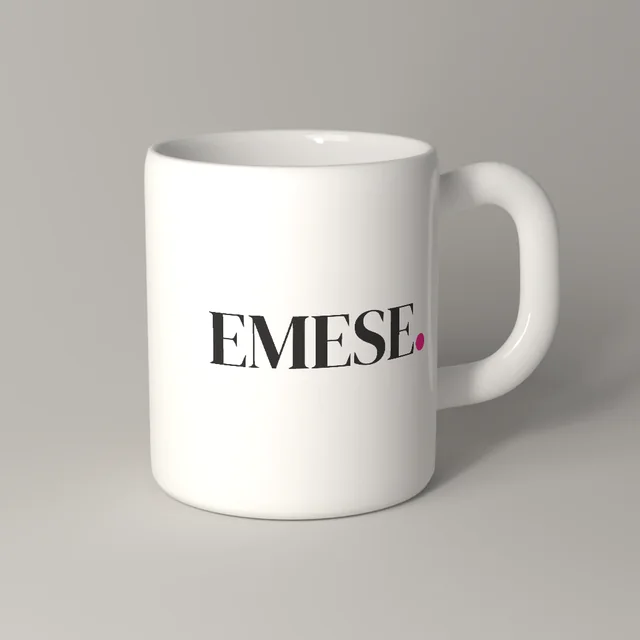
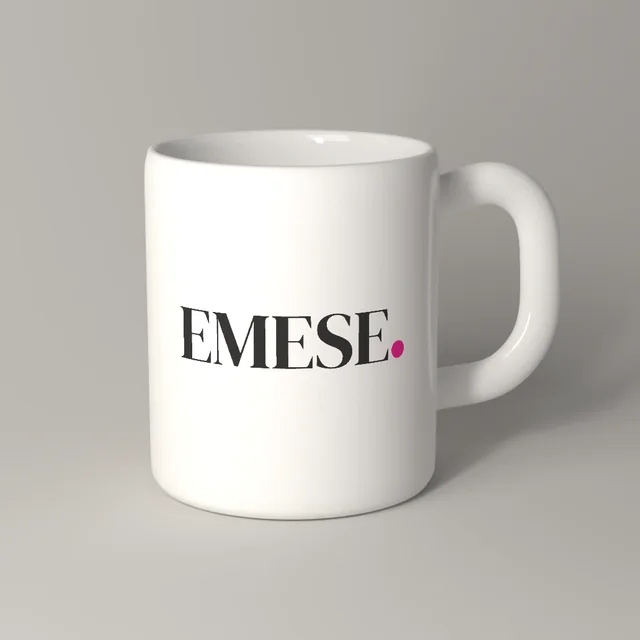
Render all 10 products; cap and desk flag; realism fixes
- Final Cycles renders for tee, cap, tote, mug, water bottle, notebook,
  pen, business cards, desk flag and wood keychain, with a float gloss
  pass so dark colours recolour cleanly
- Softer tee folds and tote weave; knit/grain kept in the albedo so it
  survives denoising and recolouring
- Foil reads as metal, laser lightens dark leather and burns light
  materials, pen prints the right way round (vFlip support)
- Mug and bottle prints face the camera by default
- Hero skips any product that fails to load; dashed frame shows the
  design bounds while moving or resizing it
- Baked card photos (tools/mockups/cards.py) for the product grid

Claude-Session: https://claude.ai/code/session_01SuPe5Mf1Zwd5UuURBBNw65

Changed region(s): [[0.2812, 0.4688, 0.6562, 0.5938]]

diff --git a/js/mockup.js b/js/mockup.js
@@ -29,7 +29,7 @@ uniform float uWidth, uRot, uAspect, uPhysW;
 uniform int uMode;          // 0 print, 1 dye, 2 uv, 3 stitch, 4 laser, 5 foil
 uniform float uGloss;
 uniform vec3 uInk;
-uniform float uUseInk, uDesignOn, uReveal, uBox;
+uniform float uUseInk, uDesignOn, uReveal, uBox, uFlipV;
 uniform vec3 uFoil;
 
 vec3 toLin(vec3 c) { return mix(c / 12.92, pow((c + 0.055) / 1.055, vec3(2.4)), step(0.04045, c)); }
@@ -40,7 +40,9 @@ vec2 decodeUV(vec2 p) {
   vec3 e = floor(texture2D(uUV, p).rgb * 255.0 + 0.5);
   float ulo = floor(e.b / 16.0);
   float vlo = e.b - ulo * 16.0;
-  return vec2(e.r * 16.0 + ulo, e.g * 16.0 + vlo) / 4095.0;
+  vec2 uv = vec2(e.r * 16.0 + ulo, e.g * 16.0 + vlo) / 4095.0;
+  if (uFlipV > 0.5) uv.y = 1.0 - uv.y;
+  return uv;
 }
 // uv for this texel, borrowing a neighbour on anti-aliased edges
 bool printUV(vec2 p, out vec2 uv) {
@@ -85,6 +87,7 @@ void main() {
   vec3 base = alb;
   float mod_ = 1.0;
   vec3 extra = vec3(0.0);
+  vec3 glow = vec3(0.0);   // light not tied to the diffuse pass (metal reflections)
 
   vec2 uv;
   if (uDesignOn > 0.5 && m.r > 0.001 && printUV(p, uv)) {
@@ -128,12 +131,12 @@ void main() {
       base = mix(alb, tgt, a);
       mod_ = 1.0 - relief * 0.35;
     } else if (uMode == 5) {     // hot foil: metallic, slightly debossed
-      base = mix(alb, uFoil * 0.35, a);
+      base = mix(alb, uFoil * 0.45, a);
       mod_ = 1.0 - relief * 0.4;
-      extra = uFoil * a * (0.15 * hl + 0.85 * pow(hl, 2.5));
+      glow = uFoil * a * (0.16 + 0.42 * smoothstep(0.0, 1.0, hl)) * (1.0 + relief * 0.6);
     }
   }
-  vec3 product = base * mod_ * L + spec + extra * L;
+  vec3 product = base * mod_ * L + spec + extra * L + glow;
   vec3 lin = mix(photo, product, cover);
   // dashed frame around the design while it is being moved or resized
   vec2 bu;
@@ -216,7 +219,7 @@ export class MockupView {
     gl.vertexAttribPointer(loc, 2, gl.FLOAT, false, 0, 0);
     this.u = {};
     for (const n of ['uPhoto', 'uLight', 'uAlbedo', 'uUV', 'uMask', 'uDesign', 'uSpec', 'uSize', 'uLightScale', 'uSpecScale', 'uBaseLin', 'uTint', 'uUseTint',
-      'uCenter', 'uWidth', 'uRot', 'uAspect', 'uPhysW', 'uMode', 'uGloss', 'uInk', 'uUseInk', 'uDesignOn', 'uReveal', 'uFoil', 'uBox']) {
+      'uCenter', 'uWidth', 'uRot', 'uAspect', 'uPhysW', 'uMode', 'uGloss', 'uInk', 'uUseInk', 'uDesignOn', 'uReveal', 'uFoil', 'uBox', 'uFlipV']) {
       this.u[n] = gl.getUniformLocation(prog, n);
     }
     this.tex = {};
@@ -288,7 +291,8 @@ export class MockupView {
     const i = (y * w + x) * 4;
     if (this._mask[i + 2] < 128) return null;
     const ulo = this._uv[i + 2] >> 4, vlo = this._uv[i + 2] & 15;
-    return { u: ((this._uv[i] << 4) | ulo) / 4095, v: ((this._uv[i + 1] << 4) | vlo) / 4095 };
+    const v = ((this._uv[i + 1] << 4) | vlo) / 4095;
+    return { u: ((this._uv[i] << 4) | ulo) / 4095, v: this.product.meta.flipV ? 1 - v : v };
   }
 
   render() {
@@ -314,6 +318,7 @@ export class MockupView {
     gl.uniform1f(u.uReveal, s.reveal ? 1 : 0);
     gl.uniform3fv(u.uFoil, hexToLin(s.foil));
     gl.uniform1f(u.uBox, s.box ? 1 : 0);
+    gl.uniform1f(u.uFlipV, meta.flipV ? 1 : 0);
     gl.drawArrays(gl.TRIANGLE_STRIP, 0, 4);
   }
 }

diff --git a/index.html b/index.html
@@ -111,7 +111,7 @@
           <ul class="chips"><li data-i18n="tech.laser">ليزر</li><li>UV</li></ul>
         </article>
         <article class="card card-photo reveal" style="--accent: var(--m)">
-          <img class="card-img" src="assets/mockups/flag/card.webp" alt="" width="640" height="640" loading="lazy">
+          <img class="card-img" src="assets/mockups/flag/card.webp" alt="" width="640" height="640" loading="lazy" style="object-position: 50% 15%">
           <h3 data-i18n="p5.t">أعلام ورايات</h3>
           <p data-i18n="p5.d">أعلام مكاتب، رايات فعاليات، وبانرات بألوان فاقعة ما بتبهتش.</p>
           <ul class="chips"><li data-i18n="tech.sub">سبلميشن</li><li>DTF</li></ul>

diff --git a/js/hero.js b/js/hero.js
@@ -75,7 +75,10 @@ async function init() {
     if (visible && !document.hidden) {
       canvas.classList.add('fade');
       await new Promise(r => setTimeout(r, FADE_MS));
-      try { await show((idx + 1) % SHOW.length); } catch (e) { /* keep the current one */ }
+      // skip any product that fails to load
+      for (let k = 1; k <= SHOW.length; k++) {
+        try { await show((idx + k) % SHOW.length); break; } catch (e) { /* try the next one */ }
+      }
       canvas.classList.remove('fade');
     }
     setTimeout(tick, SHOW_MS);

diff --git a/tools/mockups/products.py b/tools/mockups/products.py
@@ -597,7 +597,8 @@ def build_pen():
         co = me.vertices[loop.vertex_index].co
         a = math.atan2(co.y, co.x)
         # v around the barrel, centred on the side that faces up after rotation
-        uvl.data[loop.index].uv = ((co.z - z0) / (z1 - z0), ((a - math.pi / 2) / (2 * math.pi) + 0.5) % 1.0)
+        # v runs around the barrel so text reads upright on the side facing the camera
+        uvl.data[loop.index].uv = ((co.z - z0) / (z1 - z0), 1.0 - (((a - math.pi / 2) / (2 * math.pi) + 0.5) % 1.0))
     chrome = principled('chrome', color=(0.9, 0.9, 0.92), rough=0.08, metallic=1.0)
     grip = lathe('grip', [(0, 0), (R * 0.98, 0), (R * 0.95, 0.022), (0.0045, 0.03), (0, 0.03)], steps=96)
     grip.location.z = -0.028
@@ -622,8 +623,8 @@ def build_pen():
     lib.area_light((0.0, -0.05, 0.35), (0, 0, 0), 0.7, 0.04, size_y=0.5, color=(1, 1, 1))
     lib.camera((0.0, -0.16, 0.31), (-0.004, 0.0, 0.0), lens=82)
     return dict(tintable=True, print_aspect=(z1 - z0) / (2 * math.pi * R),
-                default={'u': 0.5, 'v': 0.5, 'w': 0.6},
-                extra={'presets': {'center': {'u': 0.5, 'v': 0.5, 'w': 0.6}}})
+                default={'u': 0.5, 'v': 0.25, 'w': 0.6},
+                extra={'presets': {'center': {'u': 0.5, 'v': 0.25, 'w': 0.6}}})
 
 
 # ----------------------------------------------------------------- cards ---
@@ -751,16 +752,16 @@ def build_tote():
     def canvas(name):
         m = principled(name, color=(0.86, 0.85, 0.82), rough=0.95, sheen=0.3, spec=0.3)
         co = lib.tex_coord(m)
-        wx = node(m, 'ShaderNodeTexWave', _wave_type='BANDS', _bands_direction='X', Scale=260.0, Distortion=0.8)
-        wy = node(m, 'ShaderNodeTexWave', _wave_type='BANDS', _bands_direction='Y', Scale=260.0, Distortion=0.8)
+        wx = node(m, 'ShaderNodeTexWave', _wave_type='BANDS', _bands_direction='X', Scale=150.0, Distortion=2.5, Detail=2.0)
+        wy = node(m, 'ShaderNodeTexWave', _wave_type='BANDS', _bands_direction='Y', Scale=150.0, Distortion=2.5, Detail=2.0)
         connect(m, co, wx.inputs['Vector'])
         connect(m, co, wy.inputs['Vector'])
         n = lib.noise(m, co, 30.0, detail=4)
         hem = line_groove(m, co, (-0.2, H / 2 - 0.025), (0.2, H / 2 - 0.025), [0.0, 0.006], width=0.0013)
         h = sum_sockets(m, [wx.outputs['Fac'], wy.outputs['Fac'], n.outputs['Fac'], hem], [0.4, 0.4, 0.5, 1.0])
         weave = sum_sockets(m, [wx.outputs['Fac'], wy.outputs['Fac'], n.outputs['Fac']], [0.35, 0.35, 0.3])
-        textured_albedo(m, (0.86, 0.85, 0.82), weave, amount=0.14)
-        lib.add_bump(m, h, strength=0.3, distance=0.0012)
+        textured_albedo(m, (0.86, 0.85, 0.82), weave, amount=0.06)
+        lib.add_bump(m, h, strength=0.22, distance=0.0012)
         return m
     mp, mb = canvas('print'), canvas('body')
     two_slots(bag, mp, mb)

diff --git a/tools/mockups/lib.py b/tools/mockups/lib.py
@@ -27,7 +27,7 @@ import bpy
 import bmesh
 import numpy as np
 from mathutils import Vector
-from PIL import Image
+from PIL import Image, ImageFilter
 
 RES = 1200
 
@@ -372,7 +372,9 @@ def render_product(pid, out_dir, *, tintable, print_aspect, default, extra=None,
     spec = np.clip(photo_lin - albedo * light, 0, None) * region[..., None]
     sv = spec[region].max(axis=1) if region.any() else np.array([0.0])
     SP = max(float(np.percentile(sv, 99.8)) * 1.05, 0.02) if sv.size else 0.02
-    Image.fromarray(_u8(_srgb(spec / SP))).save(os.path.join(out_dir, 'spec.webp'), quality=92, method=6)
+    # a whisper of blur drops invisible denoiser grain that would otherwise bloat the file
+    Image.fromarray(_u8(_srgb(spec / SP))).filter(ImageFilter.GaussianBlur(0.6)).save(
+        os.path.join(out_dir, 'spec.webp'), quality=86, method=6)
     make_thumb(photo, os.path.join(out_dir, 'thumb.webp'))
     Image.fromarray(light_enc).save(os.path.join(out_dir, 'light.webp'), quality=92, method=6)
     Image.fromarray(albedo_enc).save(os.path.join(out_dir, 'albedo.webp'), quality=95, method=6)

diff --git a/tools/mockups/cards.py b/tools/mockups/cards.py
@@ -87,6 +87,8 @@ def bake(pid, meta, tint, ink, logo):
 
     u = ((uvp[..., 0] << 4) | (uvp[..., 2] >> 4)) / 4095.0
     v = ((uvp[..., 1] << 4) | (uvp[..., 2] & 15)) / 4095.0
+    if meta.get('flipV'):
+        v = 1 - v
     d = meta['default']
     aspect = meta['printAspect']
     dx = u - d['u']
